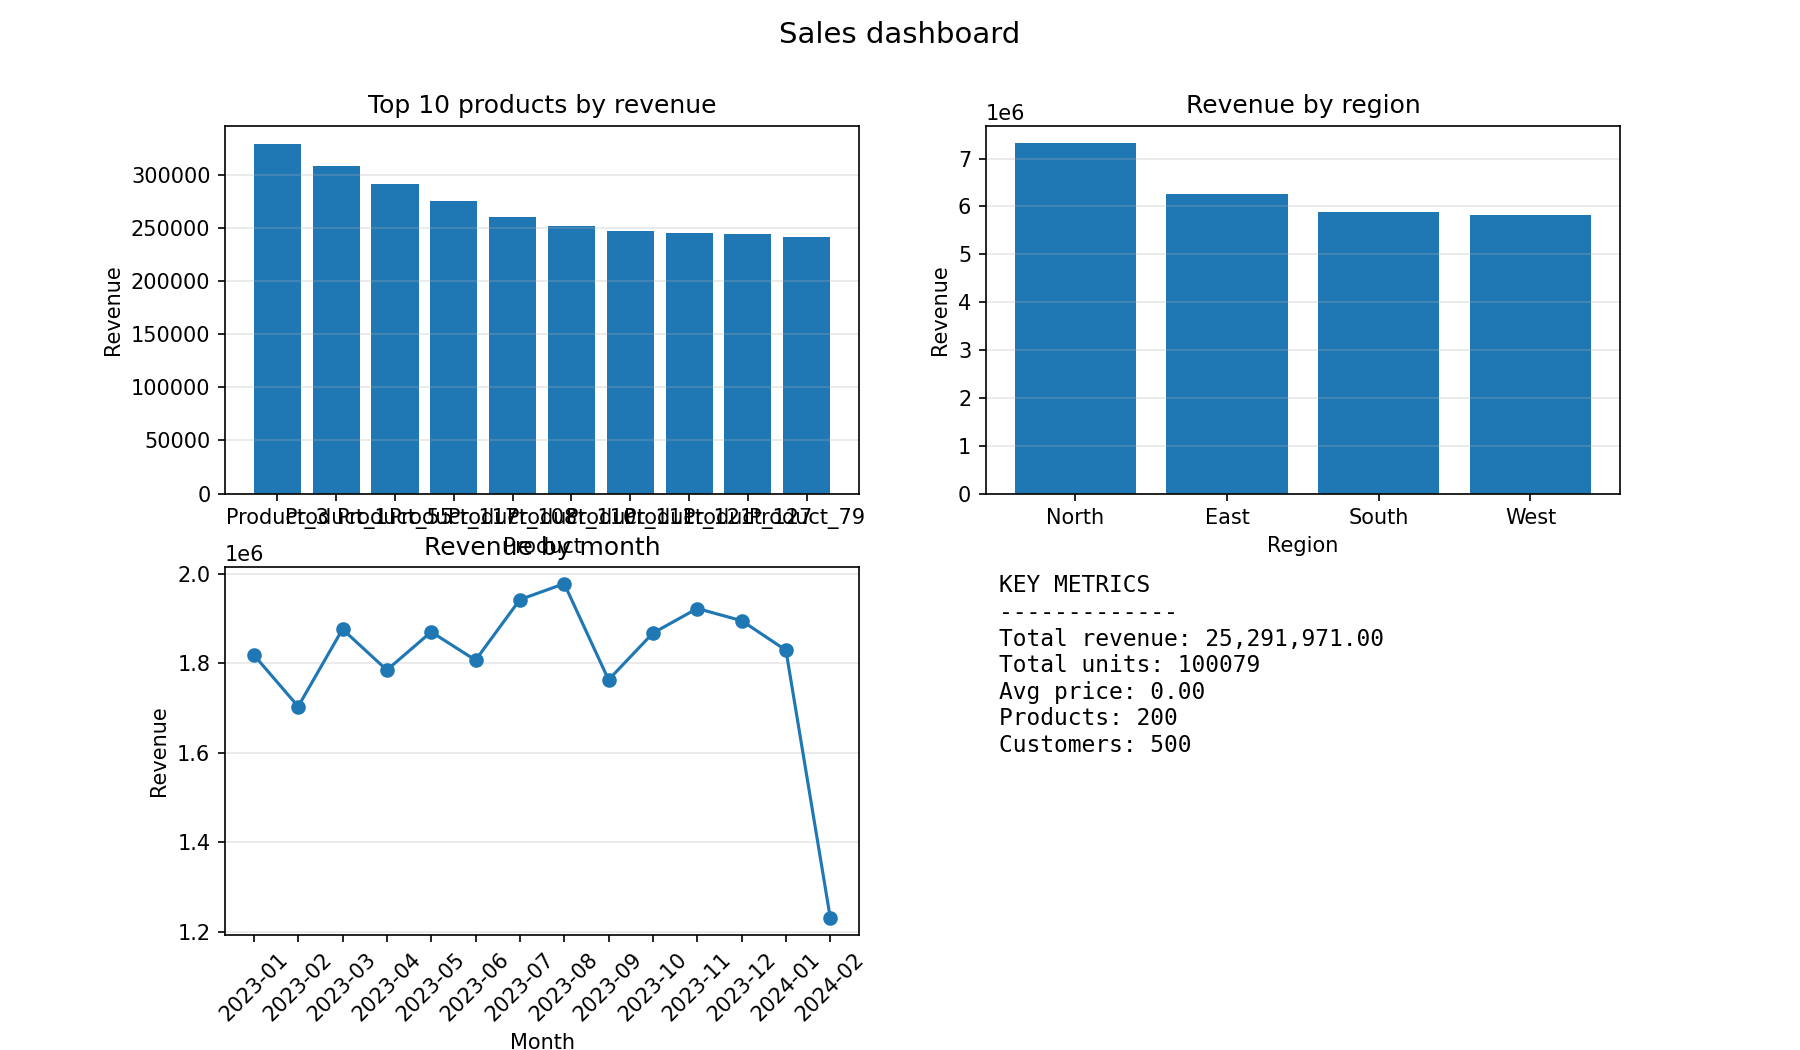
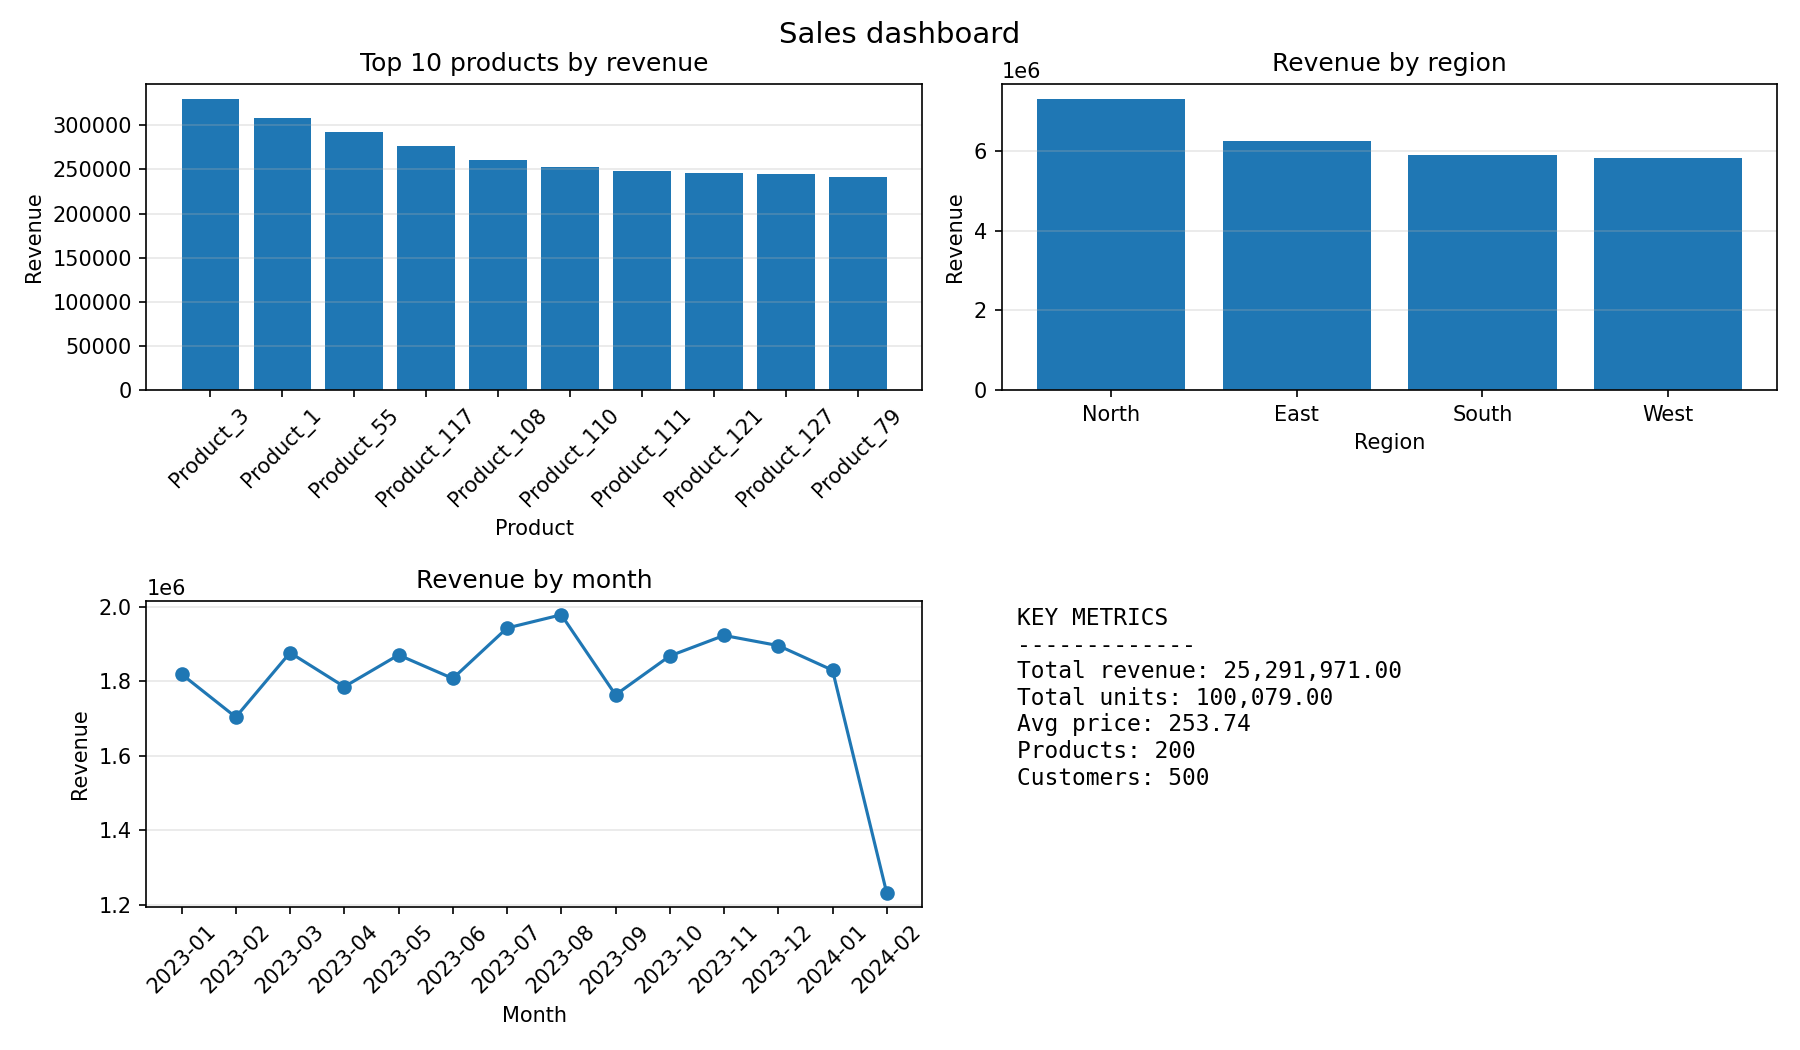
python visualizer: dashboard tight layout

diff --git a/data-heroes/python/final_project/src/visualizer.py b/data-heroes/python/final_project/src/visualizer.py
@@ -12,12 +12,13 @@ def save_dashboard(
 
 ):
     top = df_by_product.nlargest(n_top, "revenue").copy()
-    fig, axs = plt.subplots(2,2,figsize=[12,7])
+    fig, axs = plt.subplots(2, 2, figsize=(12,7))
 
     axs[0, 0].bar(top["product_name"], top["revenue"])
     axs[0, 0].set_title(f"Top {n_top} products by revenue")
     axs[0, 0].set_xlabel("Product")
     axs[0, 0].set_ylabel("Revenue")
+    axs[0, 0].tick_params(axis="x", rotation=45)
     axs[0, 0].grid(axis="y", alpha=0.3)
 
     axs[0, 1].bar(df_by_region["region"], df_by_region["revenue"])
@@ -38,8 +39,8 @@ def save_dashboard(
         "KEY METRICS",
         "-------------",
         f"Total revenue: {kpis.get("total_revenue", 0):,.2f}",
-        f"Total units: {kpis.get("total_units", 0)}",
-        f"Avg price: {kpis.get("avg_price", 0):,.2f}",
+        f"Total units: {kpis.get("total_units", 0):,.2f}",
+        f"Avg price: {kpis.get("average_price", 0):,.2f}",
         f"Products: {kpis.get("distinct_products", 0)}",
         f"Customers: {kpis.get("distinct_customers", 0)}"
     ]
@@ -51,9 +52,13 @@ def save_dashboard(
     )
 
     fig.suptitle("Sales dashboard", fontsize=14, y=0.98)
+    plt.tight_layout()
+    plt.subplots_adjust(top=0.92)
 
     out_path = os.path.join(out_dir, filename)
 
     plt.savefig(out_path, dpi=150)
 
     plt.close(fig)
+
+    return out_path
